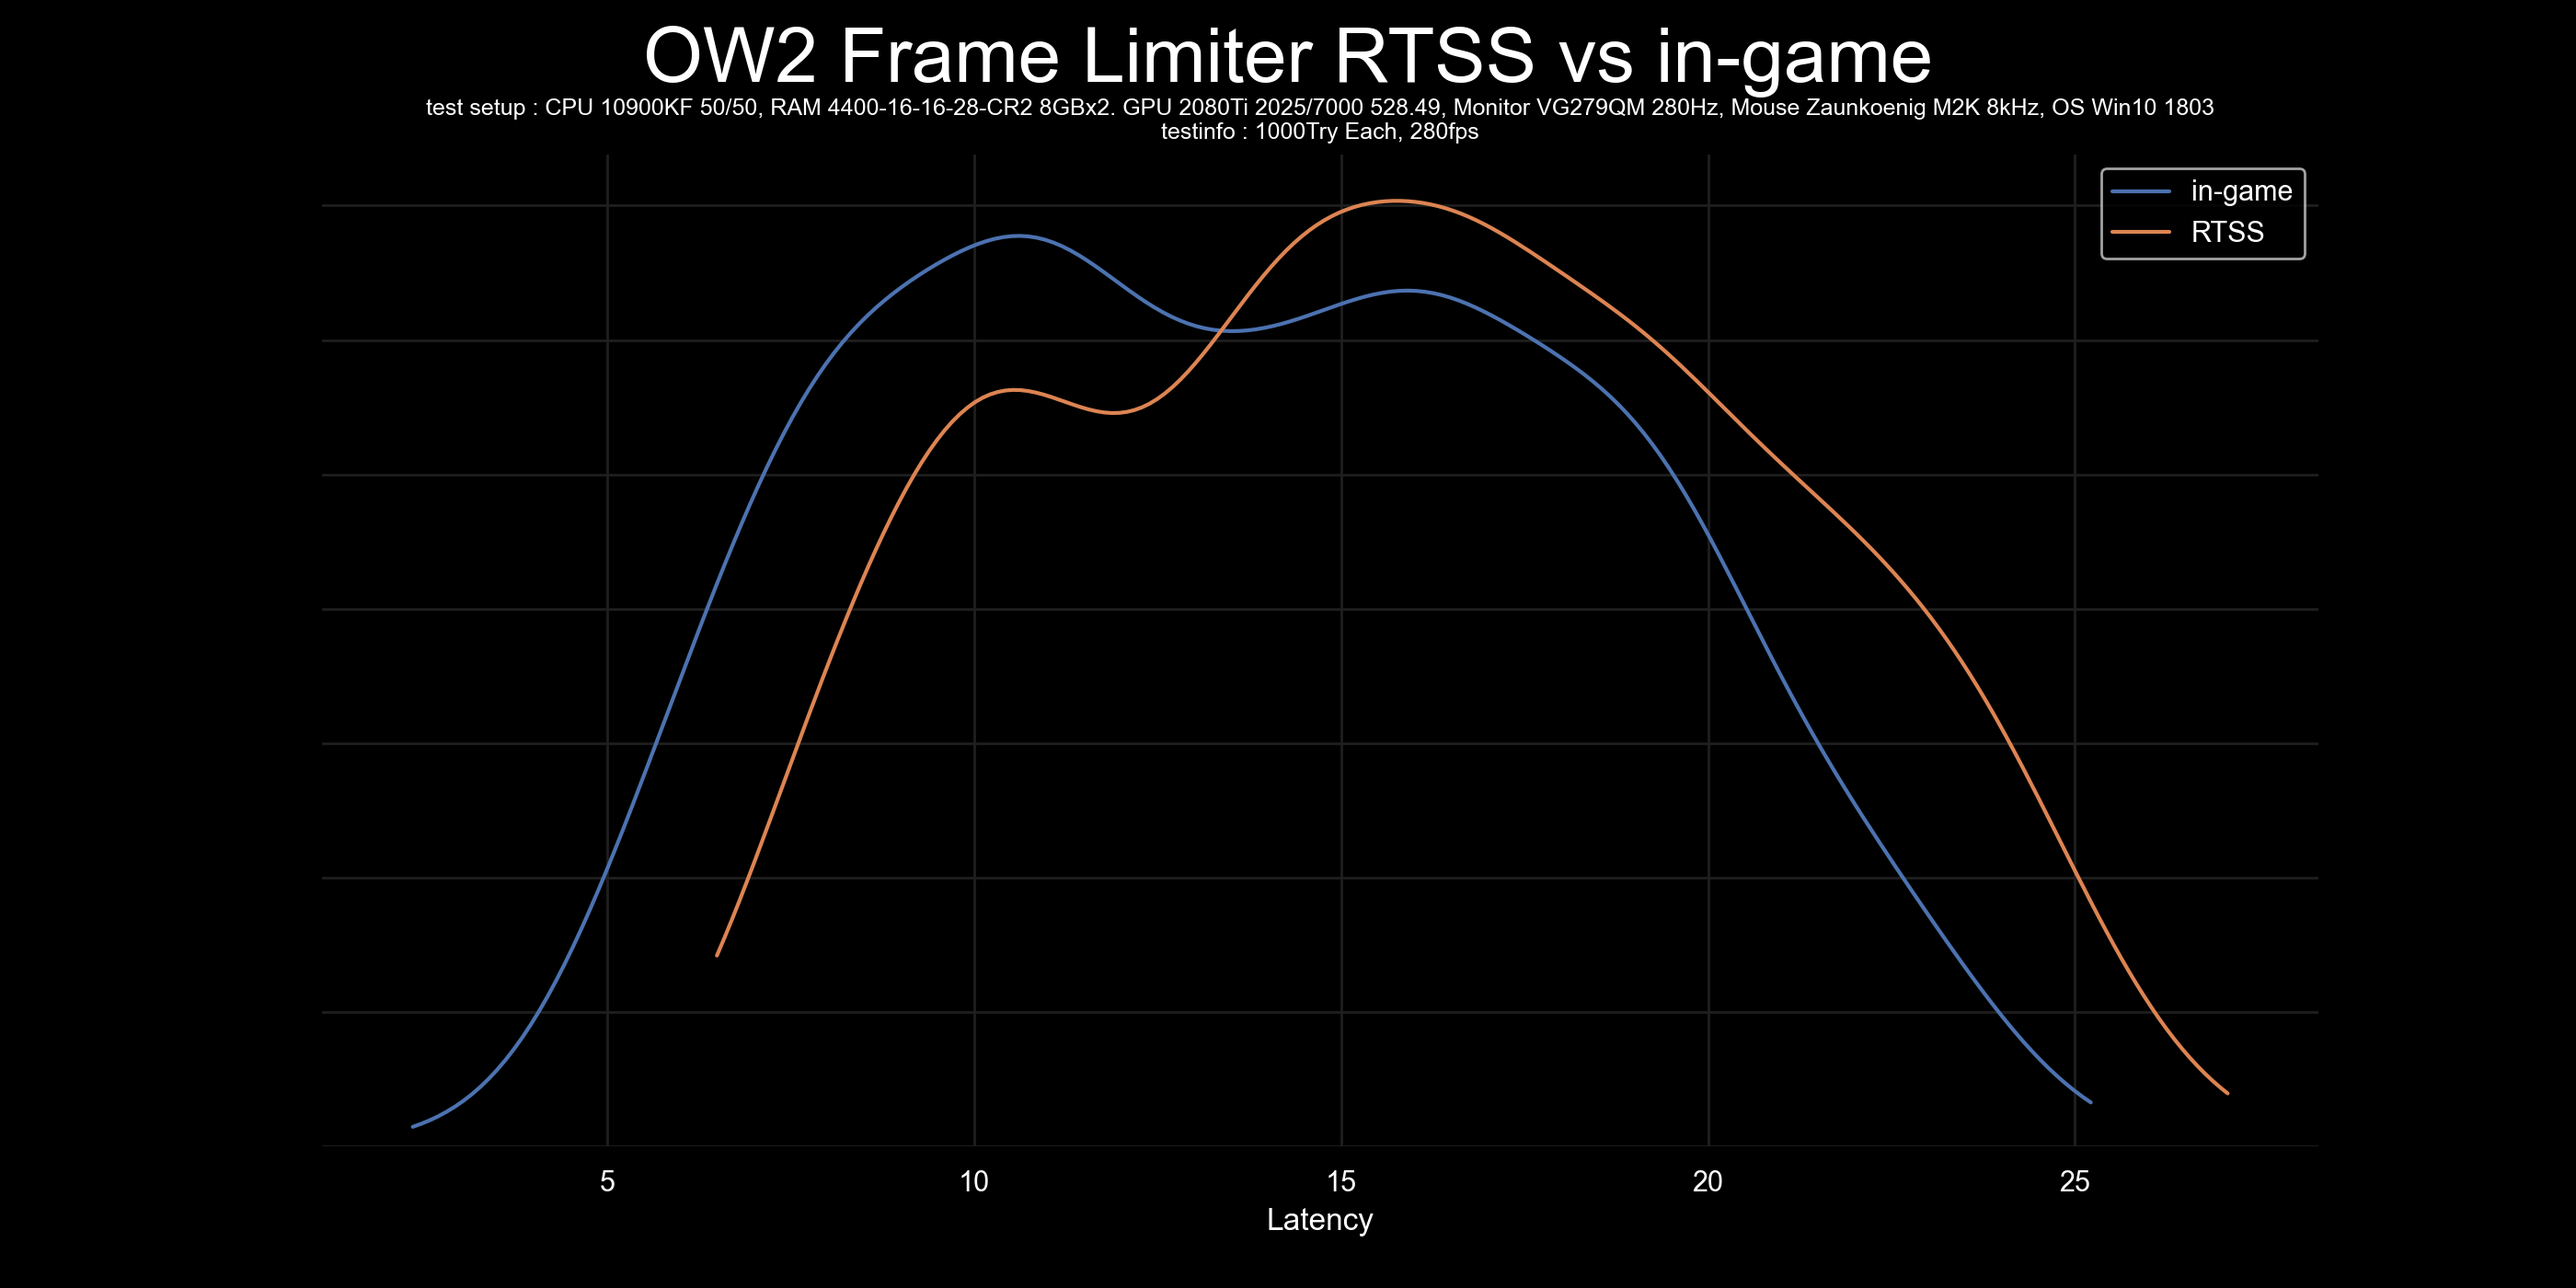
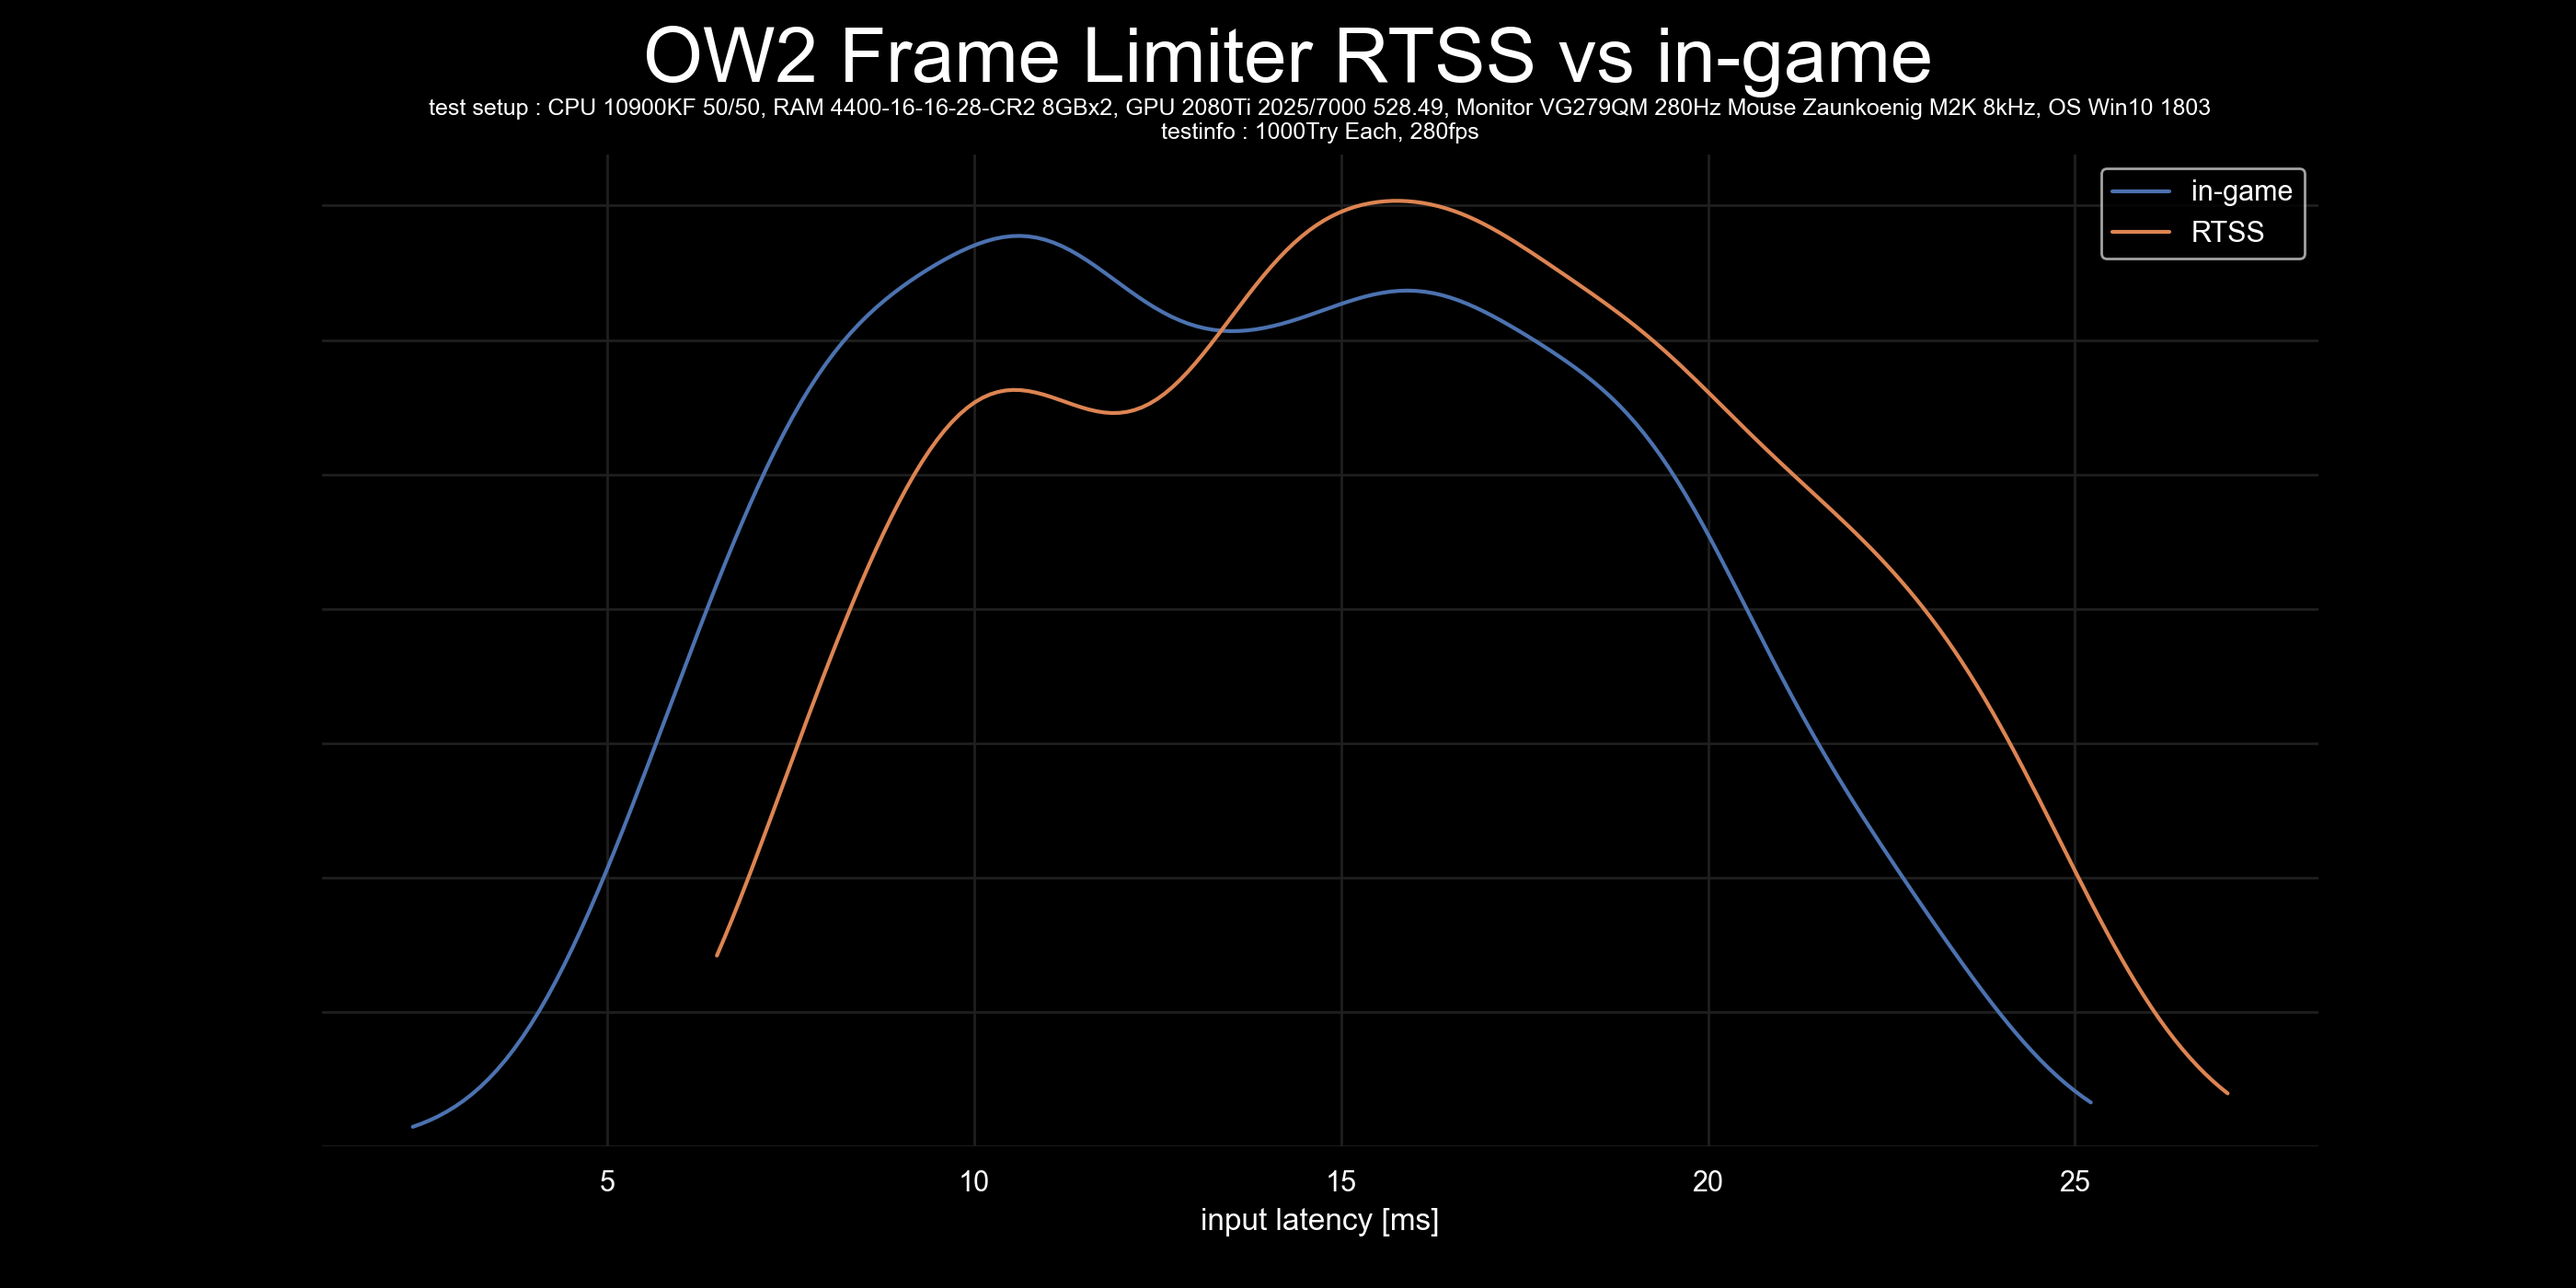
fix xlabel in script and images

Changed region(s): [[0.1554, 0.0614, 0.87, 0.0921], [0.4661, 0.9214, 0.5593, 0.9521]]

diff --git a/histgraph_poly.py b/histgraph_poly.py
@@ -55,7 +55,7 @@ plt.yticks(color=backcolor)
 ax.set_title("test setup : "+TestSetup+"\ntestinfo : "+TestInfo,color=labelcolor,size=9)
 for b in ['top', 'bottom', 'left', 'right']:
     ax.spines[b].set_linewidth(0)
-ax.set(ylabel="input latency [ms]")
+ax.set(xlabel="input latency [ms]")
 ax.yaxis.label.set_color(backcolor)
 ax.xaxis.label.set_color(labelcolor)
 

diff --git a/histgraph_step.py b/histgraph_step.py
@@ -55,7 +55,7 @@ plt.yticks(color=backcolor)
 ax.set_title("test setup : "+TestSetup+"\ntestinfo : "+TestInfo,color=labelcolor,size=9)
 for b in ['top', 'bottom', 'left', 'right']:
     ax.spines[b].set_linewidth(0)
-ax.set(ylabel="input latency [ms]")
+ax.set(xlabel="input latency [ms]")
 ax.yaxis.label.set_color(backcolor)
 ax.xaxis.label.set_color(labelcolor)
 

diff --git a/kdeplot.py b/kdeplot.py
@@ -52,7 +52,7 @@ plt.yticks(color=backcolor)
 ax.set_title("test setup : "+TestSetup+"\ntestinfo : "+TestInfo,color=labelcolor,size=9)
 for b in ['top', 'bottom', 'left', 'right']:
     ax.spines[b].set_linewidth(0)
-ax.set(ylabel="input latency [ms]")
+ax.set(xlabel="input latency [ms]")
 ax.yaxis.label.set_color(backcolor)
 ax.xaxis.label.set_color(labelcolor)
 
